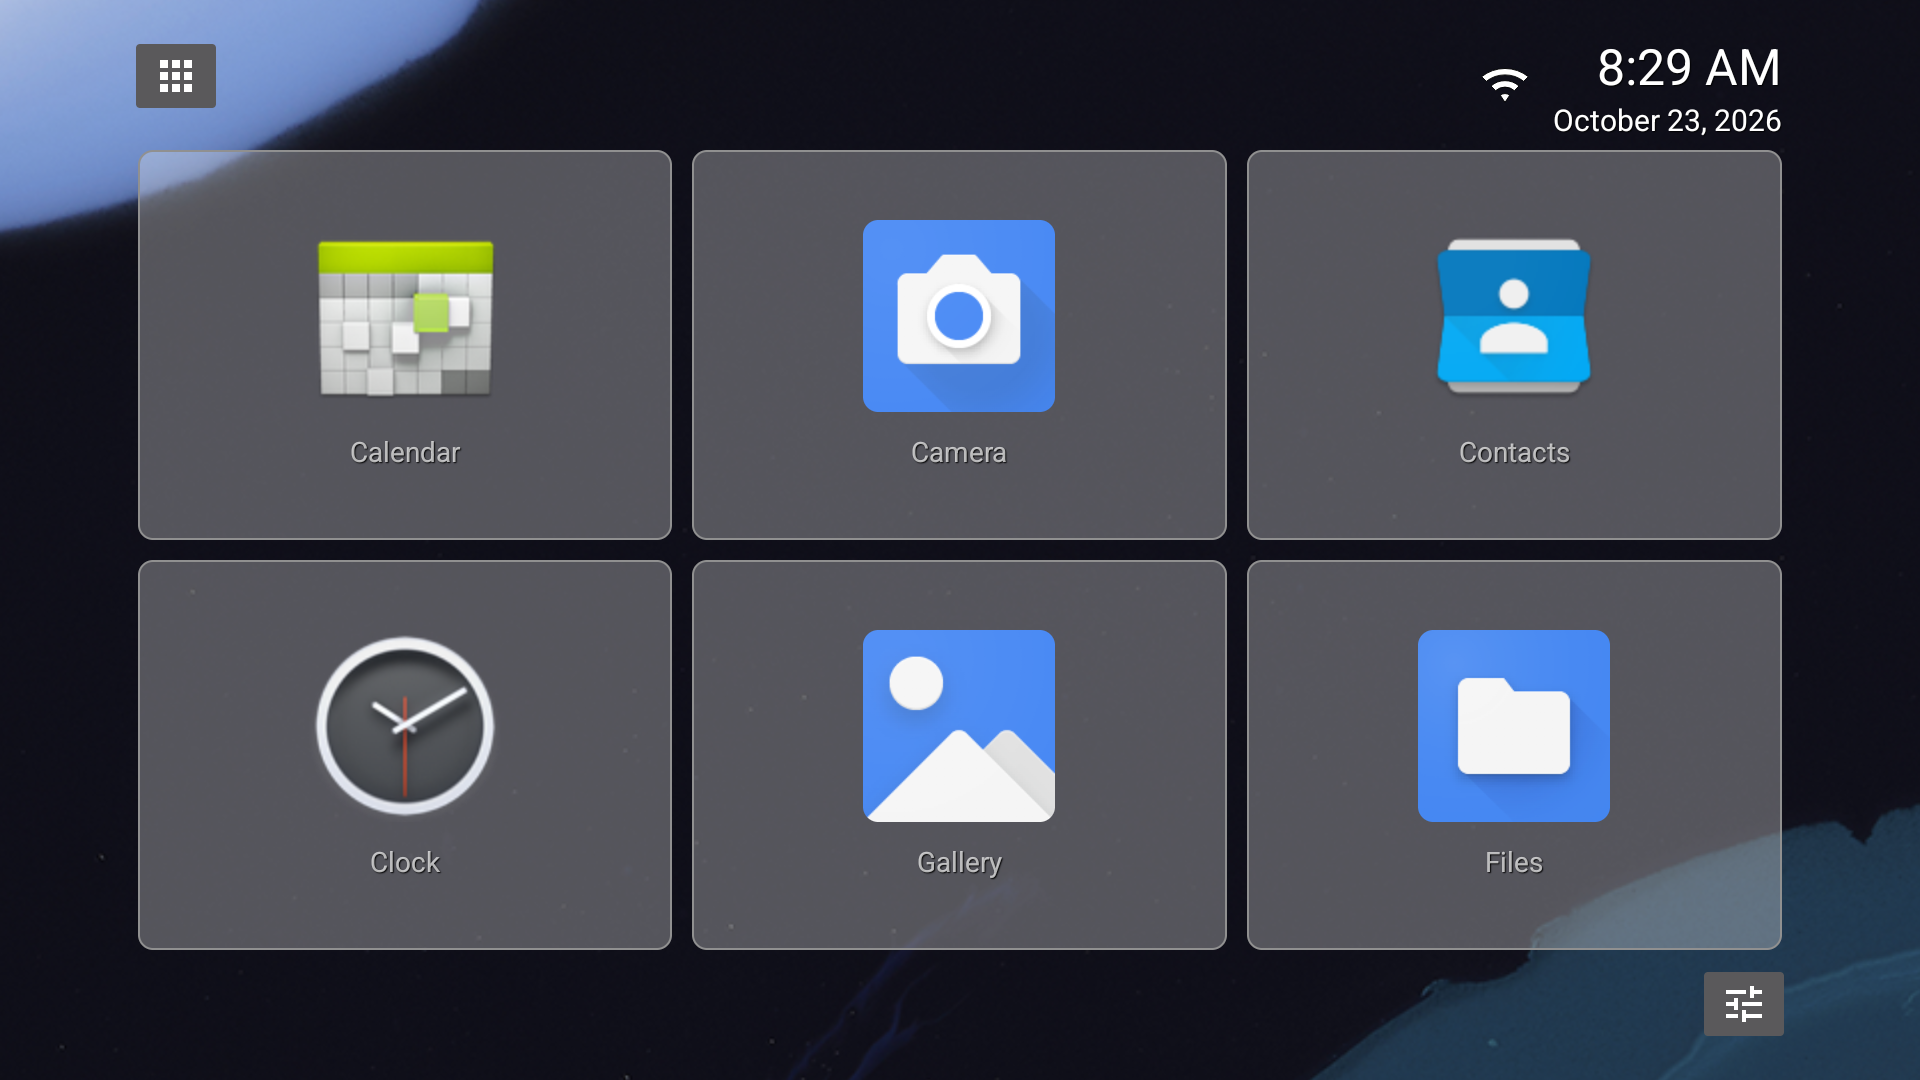
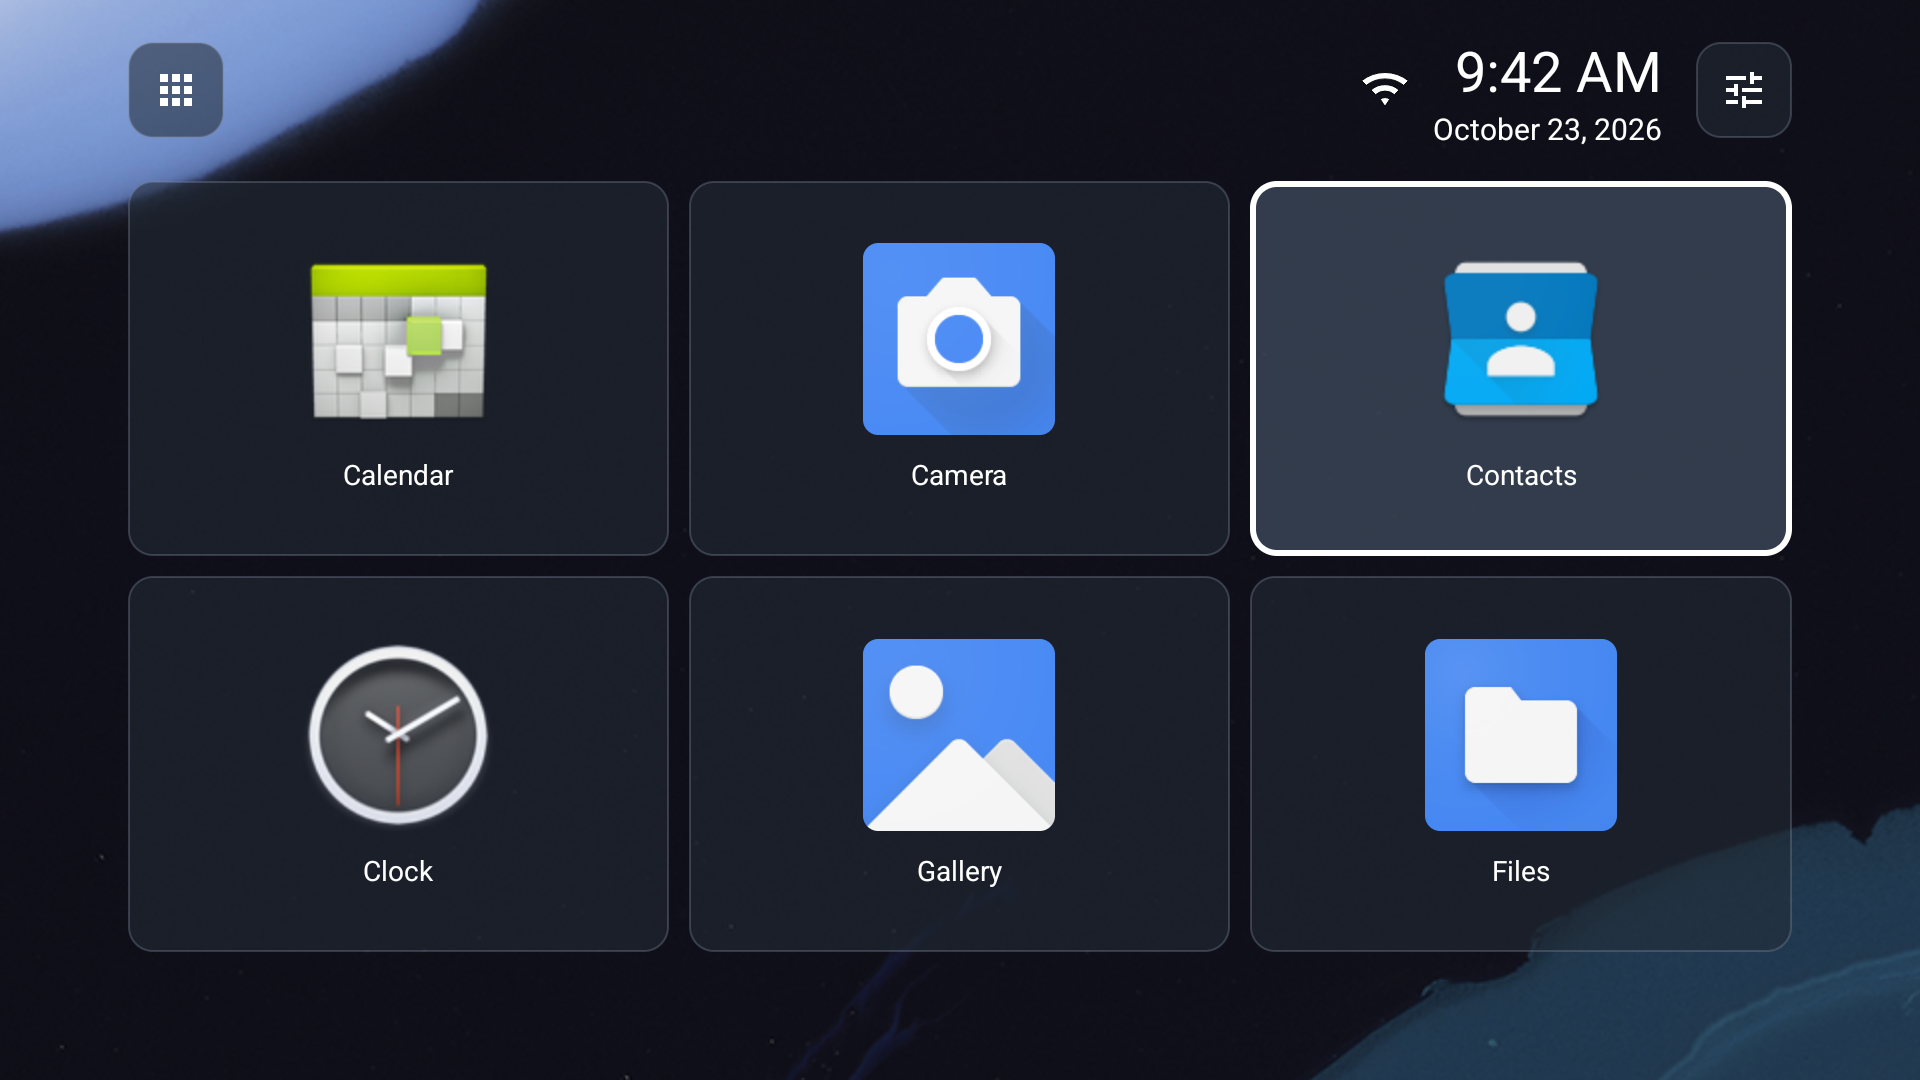
v2.0.1 Small redesign

diff --git a/launcher/src/main/java/org/cosinus/launchertv/fragments/ApplicationFragment.java b/launcher/src/main/java/org/cosinus/launchertv/fragments/ApplicationFragment.java
@@ -217,7 +217,7 @@ public class ApplicationFragment extends Fragment implements View.OnClickListene
 		for (int y = 0; y < mGridY; y++) {
 			LinearLayout ll = new LinearLayout(getContext());
 			ll.setOrientation(LinearLayout.HORIZONTAL);
-			ll.setGravity(Gravity.CENTER_VERTICAL);
+			ll.setGravity(Gravity.TOP);
 			ll.setFocusable(false);
 			ll.setLayoutParams(new LinearLayout.LayoutParams(
 					LinearLayout.LayoutParams.MATCH_PARENT, 0, 1
@@ -241,7 +241,8 @@ public class ApplicationFragment extends Fragment implements View.OnClickListene
 					av.setId(View.generateViewId());
 				}
 				LinearLayout.LayoutParams lp = new LinearLayout.LayoutParams(0, LinearLayout.LayoutParams.MATCH_PARENT, 1);
-				lp.setMargins(marginX, marginY, marginX, marginY);
+				lp.setMargins(x == 0 ? 0 : marginX, y == 0 ? 0 : marginY,
+						x + 1 == mGridX ? 0 : marginX, y + 1 == mGridY ? 0 : marginY);
 				av.setLayoutParams(lp);
 				ll.addView(av);
 				mApplications[y][x] = av;
@@ -256,8 +257,8 @@ public class ApplicationFragment extends Fragment implements View.OnClickListene
 	private void setApplicationOrder() {
 		for (int y = 0; y < mGridY; y++) {
 			for (int x = 0; x < mGridX; x++) {
-				int upId = R.id.application_grid;
-				int downId = mSetup.showIp() && x + 1 < mGridX ? R.id.ip_address : R.id.settings;
+				int upId = x + 1 == mGridX ? R.id.settings : R.id.application_grid;
+				int downId = mSetup.showIp() ? R.id.ip_address : upId;
 				int leftId = R.id.application_grid;
 				int rightId = R.id.settings;
 
@@ -285,18 +286,18 @@ public class ApplicationFragment extends Fragment implements View.OnClickListene
 		}
 
 		mGridView.setNextFocusLeftId(R.id.settings);
-		mGridView.setNextFocusRightId(mApplications[0][0].getId());
-		mGridView.setNextFocusUpId(R.id.settings);
+		mGridView.setNextFocusRightId(R.id.settings);
+		mGridView.setNextFocusUpId(R.id.application_grid);
 		mGridView.setNextFocusDownId(mApplications[0][0].getId());
 
 		mIp.setNextFocusLeftId(mApplications[mGridY - 1][mGridX - 1].getId());
 		mIp.setNextFocusRightId(R.id.settings);
 		mIp.setNextFocusUpId(mApplications[mGridY - 1][0].getId());
 		mIp.setNextFocusDownId(R.id.application_grid);
-		mSettings.setNextFocusLeftId(mSetup.showIp() ? R.id.ip_address : mApplications[mGridY - 1][mGridX - 1].getId());
+		mSettings.setNextFocusLeftId(R.id.application_grid);
 		mSettings.setNextFocusRightId(R.id.application_grid);
-		mSettings.setNextFocusUpId(mApplications[mGridY - 1][mGridX - 1].getId());
-		mSettings.setNextFocusDownId(R.id.application_grid);
+		mSettings.setNextFocusUpId(R.id.settings);
+		mSettings.setNextFocusDownId(mApplications[0][mGridX - 1].getId());
 	}
 
 

diff --git a/launcher/src/main/java/org/cosinus/launchertv/views/ApplicationView.java b/launcher/src/main/java/org/cosinus/launchertv/views/ApplicationView.java
@@ -120,15 +120,15 @@ public class ApplicationView extends LinearLayout {
 
 		Drawable drawableEnabled = createTileShape(
 				R.drawable.application_normal,
-				Color.argb(getTransparency(transparency, 0.0F), 0xF0, 0xF0, 0xF0)
+				Color.argb(getTransparency(transparency, 0.0F), 0x21, 0x2A, 0x36)
 		);
 		Drawable drawableFocused = createTileShape(
 				R.drawable.application_focused,
-				Color.argb(getTransparency(transparency, 0.4F), 0xE0, 0xE0, 0xFF)
+				Color.argb(getTransparency(transparency, 0.4F), 0x3A, 0x46, 0x57)
 		);
 		Drawable drawablePressed = createTileShape(
 				R.drawable.application_pressed,
-				Color.argb(getTransparency(transparency, 0.8F), 0xE0, 0xE0, 0xFF)
+				Color.argb(getTransparency(transparency, 0.8F), 0x4A, 0x58, 0x6B)
 		);
 
 		stateListDrawable.addState(new int[]{android.R.attr.state_pressed}, drawablePressed);
